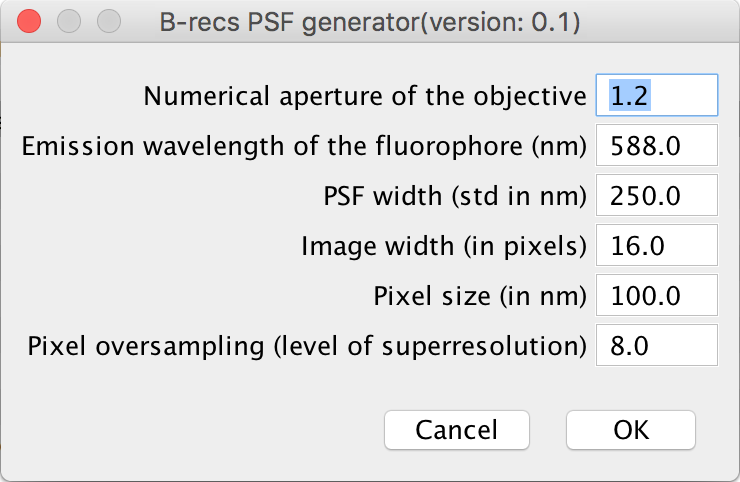
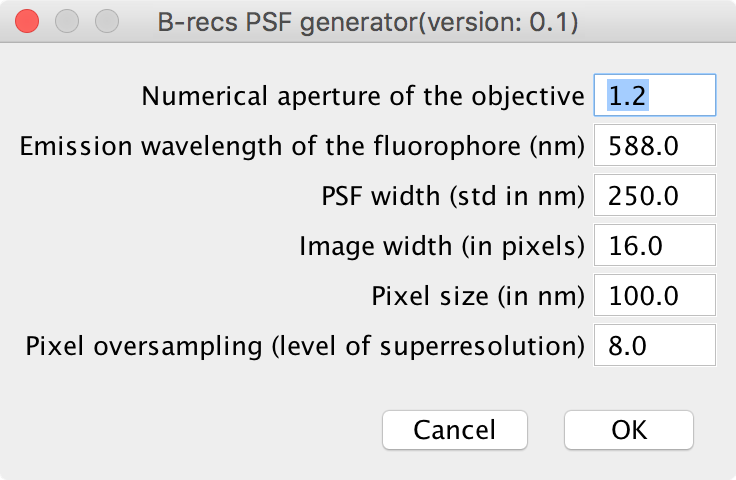
2d reconstruction menu in the doc

diff --git a/doc/source/plugin.rst b/doc/source/plugin.rst
@@ -15,7 +15,7 @@ You need to enter a few parameters to produce the PSF:
 
 .. image:: psf_generator.png
    :alt: Interface window for the PSF generation
-   :width: 400px
+   :width: 370px
    :align: center
 
 * **Numerical aperture of the objective**
@@ -59,6 +59,11 @@ can be readily used for the 2d reconstruction.
 This is the core of the plugin. The parameters are slightly trickier to tune.
 If a set of parameter do not lead to a reasonable output, a few guidelines are
 given at the end of this paragraph.
+
+.. image:: 2d_reconstruction.png
+   :alt: Interface window for the 2D reconstruction
+   :width: 445px
+   :align: center
 
 * **Dataset**
   This is where you provide an image to reconstruct. The image has to be in
